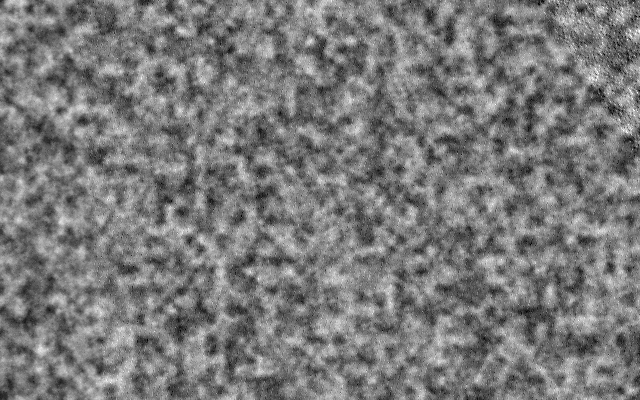
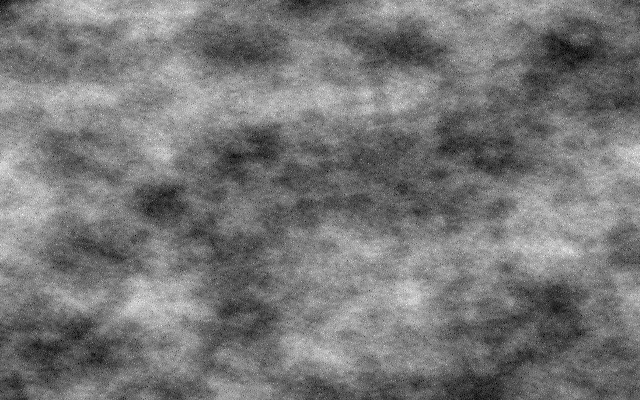
Some fixes

diff --git a/noises-and-patterns/src/noise/value.rs b/noises-and-patterns/src/noise/value.rs
@@ -17,22 +17,17 @@ impl Noise for Value {
         let i = glm::floor(&x);
         let f = glm::fract(&x);
 
-	    // Four corners in 2D of a tile
 	    let a = self.hash2d(i);
         let b = self.hash2d(i + FP2::new(1.0, 0.0));
         let c = self.hash2d(i + FP2::new(0.0, 1.0));
         let d = self.hash2d(i + FP2::new(1.0, 1.0));
 
-        // Simple 2D lerp using smoothstep envelope between the values.
-        // return vec3(mix(mix(a, b, smoothstep(0.0, 1.0, f.x)),
-        //			mix(c, d, smoothstep(0.0, 1.0, f.x)),
-        //			smoothstep(0.0, 1.0, f.y)));
-
-        // Same code, with the clamps in smoothstep and common subexpressions
-        // optimized away.
-
         let u = FP2::new( f.x * f.x * (3.0 - 2.0 * f.x), f.y * f.y * (3.0 - 2.0 * f.y));
 
-        self.mix(&a, &b, &u.x) + (c - a) * u.y * (1.0 - u.x) + (d - b) * u.x * u.y
+        let xx = self.mix(&a, &b, &u.x);
+        let yy = self.mix(&c, &d, &u.x);
+
+        self.mix(&xx, &yy, &u.y)
     }
+
 }

diff --git a/generator/src/main.rs b/generator/src/main.rs
@@ -8,7 +8,7 @@ fn main() {
     let width = 640;
     let height = 400;
 
-    //let value = Value::new();
+    // let noise = Value::new();
     //let mut bricks = Bricks::new();
     //bricks.set_property("round", 0.0);
     let noise = VoronoiBasic::new();
@@ -19,8 +19,10 @@ fn main() {
 
     for y in 0..height {
         for x in 0..width {
-            let v = (noise.get_2d(((x as FP) * 0.01, (y as FP) * 0.01)) + 1.0) / 2.0;
-            //let v = noise.fbm_2d(((x as FP) * 1.1, (y as FP) * 0.1), 5);
+            let scale = 8.0;
+            // let v = noise.get_2d(((x as FP) * 0.05, (y as FP) * 0.05));
+            let v = noise.get_2d((((x as FP) / width as FP) * scale, ((y as FP) / height as FP) * scale));
+            //let v = noise.fbm_2d((((x as FP) / width as FP) * scale, ((y as FP) / height as FP) * scale), 5);
             //let v = bricks.pattern_2d(((x as FP / width as FP), (y as FP / height as FP)));
 
             let v_u8 = (v * 255.0) as u8;

diff --git a/noises-and-patterns/src/noise.rs b/noises-and-patterns/src/noise.rs
@@ -11,23 +11,22 @@ pub trait Noise {
     fn get_2d(&self, p: (FP, FP)) -> FP;
 
     // 2D fbm for the given position and the octaves
-    //fn fbm_2d(&self, p: (FP, FP), octaves: i32) -> FP;
     fn fbm_2d(&self, p: (FP, FP), octaves: i32) -> FP {
         let mut x = FP2::new(p.0, p.1);
 
-        let mut v = 0.0;
+        let mut f = 0.0;
         let mut a = 0.5;
         let shift = FP2::new(100.0, 100.0);
 
         // Rotate to reduce axial bias
-        let rot =  Matrix2::new(0.87758256189, 0.4794255386, -0.4794255386, 0.87758256189);
+        let rot =  Matrix2::new(1.6,  1.2, -1.2,  1.6);
 
         for _i in 0..octaves {
-            v += a * self.get_2d((x.x, x.y));
+            f += a * self.get_2d((x.x, x.y));
             x = rot * x * 2.0 + shift;
             a *= 0.5;
         }
-        v
+        f.clamp(0.0, 1.0)
     }
 
     /// 2D hash

diff --git a/noises-and-patterns/src/noise/voronoibasic.rs b/noises-and-patterns/src/noise/voronoibasic.rs
@@ -39,7 +39,7 @@ impl Noise for VoronoiBasic {
             }
         }
 
-        return m.y + m.z;//m.x.sqrt()//, m.y+m.z );
+        (m.y + m.z) * 0.5 + 0.5
     }
 
 

diff --git a/noises-and-patterns/Readme.md b/noises-and-patterns/Readme.md
@@ -4,13 +4,11 @@ This library is intended for users who need access to raw, unprocessed noise val
 
 Noise classes support both raw noises as well as smooth FBM variants.
 
-This library is mostly a port of GPU noise and pattern implementations indended for computer graphics applications and games. If you need highest quality noise implementations you may have to look elsewhere.
-
 This library uses the [nalgebra-glm](https://docs.rs/nalgebra-glm/latest/nalgebra_glm/) crate as the math library (and is also its only dependency). The API however has no external dependencies.
 
 ### Precision
 
-By default the library compiles to ```f32``` via a type definition of ```FP``` in *lib.rs*, you can change  the type as instructed and compile the library to ```f64``` if needed.
+By default the library compiles to ```f32``` via a type definition of ```FP``` in *lib.rs*, you can change the type as instructed and compile the library to ```f64``` if needed.
 
 ### The Traits
 
@@ -49,12 +47,13 @@ Based on [1D, 2D & 3D Value Noise](https://www.shadertoy.com/view/4dS3Wd)
 
 ```rust
 let mut pixels = vec![0;width * height * 4];
-let value = Value::new();
+let noise = Value::new();
 
 for y in 0..height {
     for x in 0..width {
-        // let v = value.noise_2d(((x as FP) * 0.1, (y as FP) * 0.1));
-        let v = value.fbm_2d(((x as FP) * 0.1, (y as FP) * 0.1), 5);
+        let scale = 8.0;
+        // let v = noise.get_2d((((x as FP) / width as FP) * scale, ((y as FP) / height as FP) * scale));
+        let v = noise.fbm_2d((((x as FP) / width as FP) * scale, ((y as FP) / height as FP) * scale), 5);
 
         let v_u8 = (v * 255.0) as u8;
         let color = [v_u8, v_u8, v_u8, 255];
@@ -76,7 +75,8 @@ let noise = VoronoiBasic::new();
 
 for y in 0..height {
     for x in 0..width {
-        let v = (noise.get_2d(((x as FP) * 0.01, (y as FP) * 0.01)) + 1.0) / 2.0;
+        let scale = 8.0;
+        let v = noise.get_2d((((x as FP) / width as FP) * scale, ((y as FP) / height as FP) * scale));
 
         let v_u8 = (v * 255.0) as u8;
         let color = [v_u8, v_u8, v_u8, 255];
@@ -87,6 +87,8 @@ for y in 0..height {
     }
 }
 ```
+
+![Voronoi](images/voronoibasic.png)
 
 # Patterns
 

diff --git a/Readme.md b/Readme.md
@@ -4,13 +4,11 @@ This library is intended for users who need access to raw, unprocessed noise val
 
 Noise classes support both raw noises as well as smooth FBM variants.
 
-This library is mostly a port of GPU noise and pattern implementations indended for computer graphics applications and games. If you need highest quality noise implementations you may have to look elsewhere.
-
 This library uses the [nalgebra-glm](https://docs.rs/nalgebra-glm/latest/nalgebra_glm/) crate as the math library (and is also its only dependency). The API however has no external dependencies.
 
 ### Precision
 
-By default the library compiles to ```f32``` via a type definition of ```FP``` in *lib.rs*, you can change  the type as instructed and compile the library to ```f64``` if needed.
+By default the library compiles to ```f32``` via a type definition of ```FP``` in *lib.rs*, you can change the type as instructed and compile the library to ```f64``` if needed.
 
 ### The Traits
 
@@ -49,12 +47,13 @@ Based on [1D, 2D & 3D Value Noise](https://www.shadertoy.com/view/4dS3Wd)
 
 ```rust
 let mut pixels = vec![0;width * height * 4];
-let value = Value::new();
+let noise = Value::new();
 
 for y in 0..height {
     for x in 0..width {
-        // let v = value.noise_2d(((x as FP) * 0.1, (y as FP) * 0.1));
-        let v = value.fbm_2d(((x as FP) * 0.1, (y as FP) * 0.1), 5);
+        let scale = 8.0;
+        // let v = noise.get_2d((((x as FP) / width as FP) * scale, ((y as FP) / height as FP) * scale));
+        let v = noise.fbm_2d((((x as FP) / width as FP) * scale, ((y as FP) / height as FP) * scale), 5);
 
         let v_u8 = (v * 255.0) as u8;
         let color = [v_u8, v_u8, v_u8, 255];
@@ -81,7 +80,8 @@ let noise = VoronoiBasic::new();
 
 for y in 0..height {
     for x in 0..width {
-        let v = (noise.get_2d(((x as FP) * 0.01, (y as FP) * 0.01)) + 1.0) / 2.0;
+        let scale = 8.0;
+        let v = noise.get_2d((((x as FP) / width as FP) * scale, ((y as FP) / height as FP) * scale));
 
         let v_u8 = (v * 255.0) as u8;
         let color = [v_u8, v_u8, v_u8, 255];
